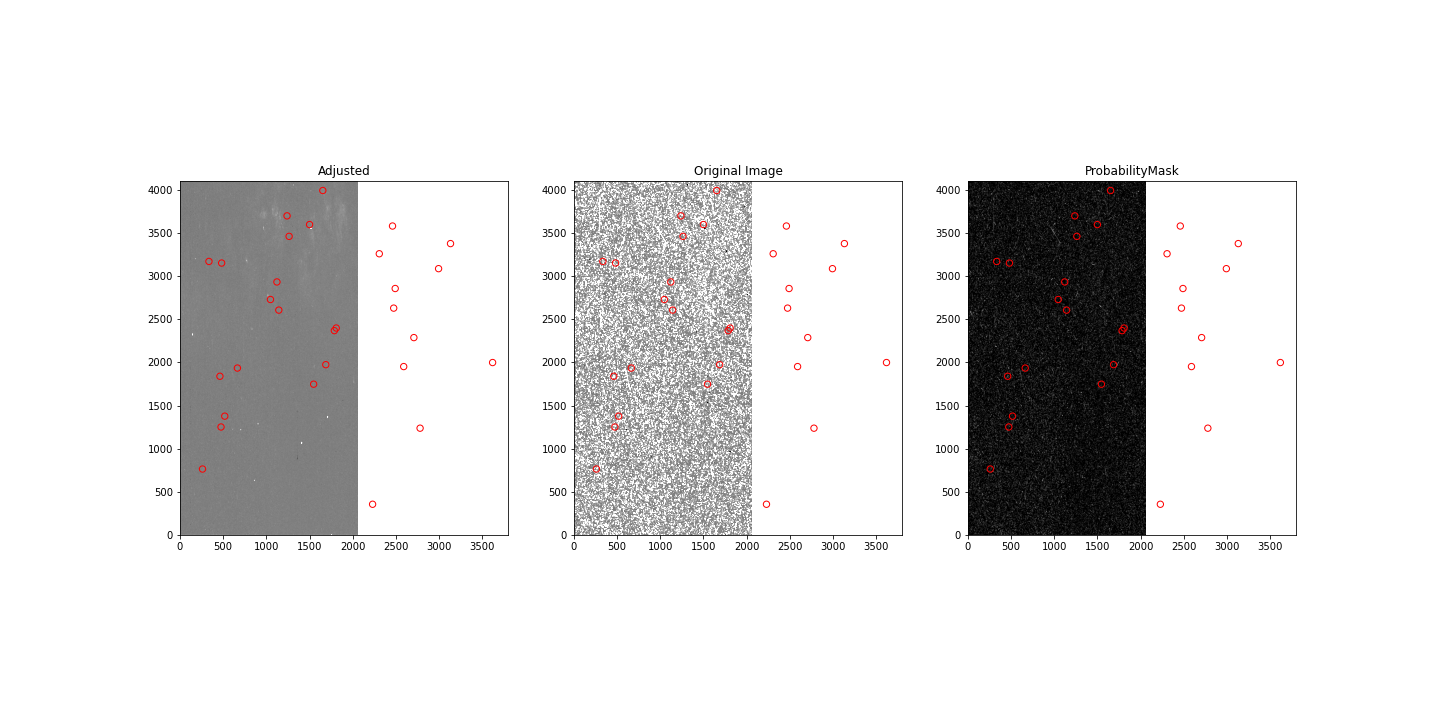
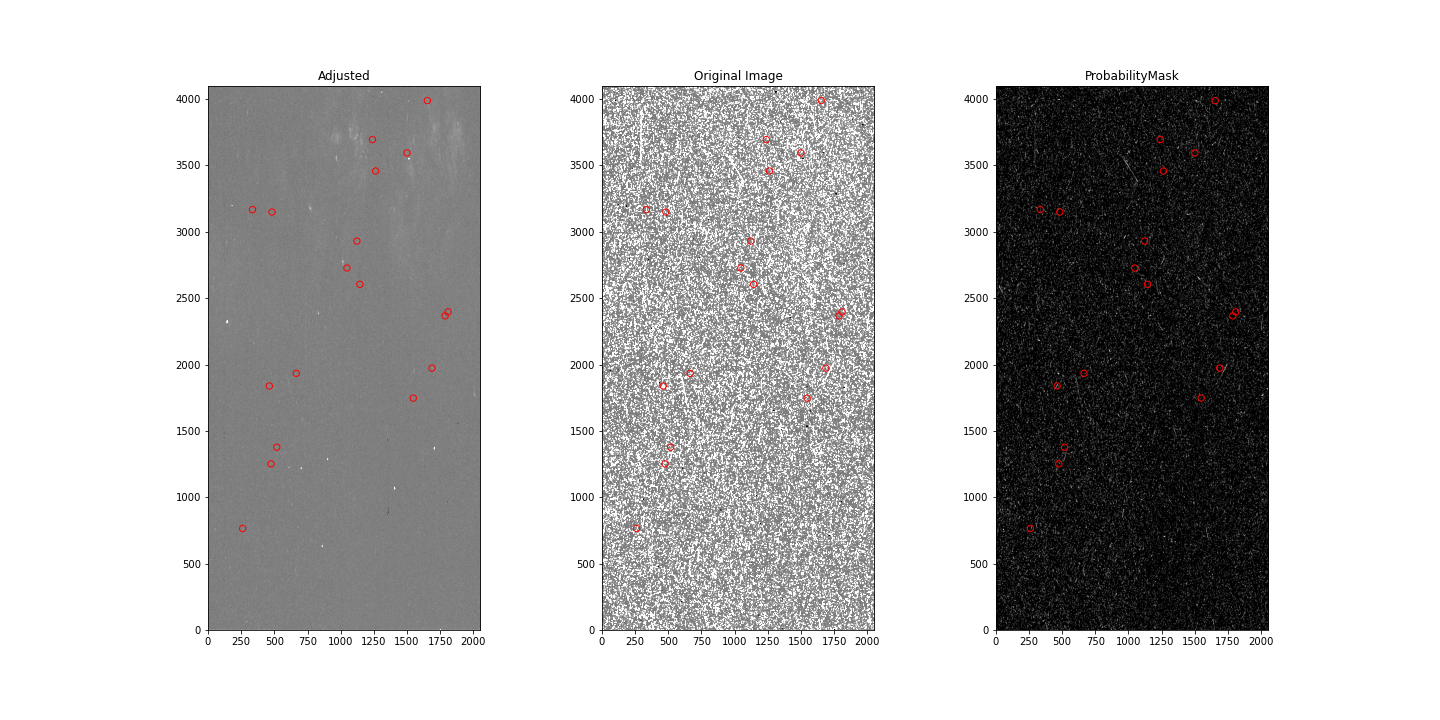
comments and new images

diff --git a/test_hst.py b/test_hst.py
@@ -2,7 +2,7 @@
 # coding: utf-8
 
 # In[ ]:
-
+#Importing libraries
 from astropy.coordinates import FK4
 import astropy.units as u
 from astropy.io import fits
@@ -15,102 +15,118 @@ from astropy.coordinates import SkyCoord
 from deepCR import deepCR 
 from astropy.visualization import astropy_mpl_style
 from astropy.utils.data import get_pkg_data_filename
+#Setting figure size, change numbers here to adjust
 plt.rcParams['figure.figsize'] = (20, 10)
+#Setting the path tolocation of region file that is saved as a text file with no object marker information
+#Change the path below to the absolute path to your file or comment it out and un-comment the line below to be
+#prompted in an ipython terminal
 obj_path = '/data/home/kdavis/hst_data/region.txt'
 #obj_path = input('What is the path to the known objects in a .txt file?')
+#Setting the path where the .png images should be stored
+#Again, replace the path below with your path or change the commented line to be prompted in ipython
 sav_path = '/data/home/kdavis/hst_data/'
 #sav_path = input('Directory where the files should be stored:')
+#Setting the path to the folder containing .fits files you would like to process
+#Include a wilcard identifier in your path and again change the commented lines to adjust how you
+#enter this information
 file_path = '/data/home/kdavis/data/*.fits'
 #file_path= input('What is the path to the files? Include an identifier or asteriks wildcard identifier.')
+#Using glob to generate a list of filenames
 paths = glob.glob(file_path)
+#Determine the number of files in the directory
 length = len(paths)
+#Setting the threshold to use in deepCR. 0.5 is reccomended in the doccumentation but this is the
+#parameter you should adjust to change how the images are processed
+#Again, there is an option to change this to prompt you for this while running ipython
 thresh = 0.5
 #thresh = float(input('What threshold would you like to use? 0.5 reccomended.'))
-lost = []
+#Creating a parameter to track the number of itterations
 n = 0
-bad_im = 0
-for path in paths[0:1]:
+#Looping over the paths
+for path in paths[0:3]:
+    #Increasing n by 1
     n +=1
+    #printing an indication of the number of images to be processed
     print(f'Processing image {n} of {length}')
-    #try:
+    #image is the raw image data from the .fits file
     image = fits.getdata(path)
-    print(fits.open(path).info)
+    #Getting the x and y dimensions of the image
     x_shape = image.shape[0]
     y_shape = image.shape[1]
-    #print(image.shape)
-#    names = ['raQSO','decQSO']
+    #Creating a parameter dtype to store information on the data types of objects in the region file
     dtype = []
+    #assuming that these will have RA then DEC coordinates
     dtype.append( ('raQSO','U20') )
     dtype.append( ('decQSO','U20') )
+    #Generating data from region file
     gotoqinfo = np.genfromtxt(obj_path,dtype=dtype)
+    #Define an empty list to store the SkyCoords from the region file
     coords = []
+    #Loop over the objects in the region file
     for i in range(0, gotoqinfo.shape[0]):
+        #Create SyCoord for object
         c = SkyCoord(gotoqinfo[i][0], gotoqinfo[i][1], frame = FK4, unit = (u.hourangle, u.deg))
+        #Append the SkyCoord to the list
         coords.append(c)
+    #Set the Header Data Unit (hdu) to be the hdu from the fits file
     with fits.open(path) as hdu:
+        #Create an object wcs to store information about the coordinates from the fits file
         wcs = WCS(fobj = hdu, header = hdu[1].header)
+        #Create lists for x an y coordinates of region file objects in this projected coordinates system
         pix_x = []
         pix_y = []
+        #Loop over coordinates
         for coord in coords:
+            #Grab ra and dec atributes from the coordinates
             ra = coord.ra
             dec = coord.dec
+            #Project these ra and dec coordinates to pixel coordinates using wcs
             y, x = wcs.all_world2pix(ra, dec, 1, adaptive = False, ra_dec_order = True)
-            pix_x.append(x)
-            pix_y.append(y)
+            #Check to see if these objects are in the frame we plan to plot over
+            if (x>0)&(y>0)&(x<x_shape)&(y<y_shape):
+                #If they are, add them to our list to plot
+                pix_x.append(x)
+                pix_y.append(y)
+    #Creatinf the model using deepCR. These are all parameters you can change to alter the
+    #way that the models are produced. More inputs can be found in the deepCR doccumentation
     mdl = deepCR(mask = "ACS-WFC-F606W-2-32", inpaint = "ACS-WFC-F606W-2-32", device = "CPU")
+    #Create a probability mask and a cleaned image using the model above
+    #If you are hoping to write out the output of this code to a .fits file, cleaned_image is
+    #what you should be writing out.
     mask, cleaned_image = mdl.clean(image, threshold = thresh)
+    #Vmax and vmin are used to alter the contrast in the images in matplotlib. This is what you alter when
+    #you right click and drag your mouse around in DS9. You can change the contrast by replacing the 5
+    #with other numbers
     vmax = np.median(cleaned_image)+5*np.std(cleaned_image)
     vmin = np.median(cleaned_image)-5*np.std(cleaned_image)
+    #Extent will be used to define the extent of our imshow plots
     extent = [0, x_shape, 0, y_shape]
-   # dx, dy = 0.5, 0.5
-
-   # xi = np.arange(np.min(pix_x), np.max(pix_x), dx)
-   # yi = np.arange(np.min(pix_y), np.max(pix_y), dy)
-   # X, Y = np.meshgrid(xi, yi)
-   #extent = [0, x_shape, 0, y_shape]
-   #extent = [np.min(pix_x), np.max(pix_x), np.min(pix_y), np.max(pix_y)]
+    #Defining figs and axs so we can create subplots wihtin one figure  
     figs, axs = plt.subplots(1,3, frameon = False)
+    #We put our first plot in the 0 position of the plots we already defined. This will plot our cleaned image.
     axs[0].imshow(cleaned_image, vmin = vmin, vmax = vmax, origin = 'lower', cmap = 'gray', 
                   extent=extent)
+    #We create an identifyer to grab the name of the image from the path so it can be added to the filename
+    #and plot titles
     ident = path.split('/')[-1].split('.')[0]
+    #Adding a title to the plot in the 0 position
     axs[0].set_title(f'Adjusted')
-   # plt.savefig(sav_path + f'{ident}_adjusted.png');
-    #plt.figure()
-    #vmx = np.median(image)+5*np.std(image)
-    #vmn = np.median(image)-5*np.std(image)
+    #PLotting the original image in the first position
     axs[1].imshow(image, vmin = vmin, vmax = vmax, origin = 'lower', cmap = 'gray', 
                                    extent=extent)
+    #Adding a title to the original image plot
     axs[1].set_title(f'Original Image')
+    #Plotting the probability mask in the 2nd position on the figure
     axs[2].imshow(mask, origin = 'lower', cmap = 'gray', extent = extent)
+    #Adding a title to the probability mask 
     axs[2].set_title(f'ProbabilityMask')
-                           #           extent=extent)
+    #PLotting a scatterplot of open circles at the position of the known stars on the cleaned image
     axs[0].scatter(pix_x, pix_y, s = 40, facecolors = 'none', edgecolors = 'r') 
-                                   # extent=extent)
+    #PLotting a scatterplot of open circles at the position of the known stars on the original image
     axs[1].scatter(pix_x, pix_y, s = 40, facecolors = 'none', edgecolors = 'r')
-                                    #extent=extent)
+    #PLotting a scatterplot of open circles at the position of the known stars on the probability mask
     axs[2].scatter(pix_x, pix_y, s = 40, facecolors = 'none', edgecolors = 'r')
-                                    #extent=extent)
-    #axs[3].set_xlim(0,
-    #axs[3].set_ylim(0, 
-    #axs[3].set_title('Known Stars')
-   # plt.show()
+    #Save the figure to the specified save path, using the image name as an identifyer
     plt.savefig(sav_path + f'{ident}.png')
-   # plt.savefig(sav_path + f'{ident}_original');
-   # except:
-    #    bad_im +=1
-     #   lost.append(path.split('/')[-1].split('.')[0])
-#print(f'{bad_im} images not processed.The following files were not processed:{lost}')
-#file_path = input('What is the absolute path to the data files?')
-#thresh = input('What threshold? 0.5 reccomended.')
-#image = fits.getdata(file_path)[:512,:512]
-#mdl = deepCR(mask="ACS-WFC-F606W-2-32", inpaint="ACS-WFC-F606W-2-32", device="CPU")
-#mask, cleaned_image = mdl.clean(image, threshold = thresh)
-#prob_mask = mdl.clean(image, binary=False)
-#plt.imshow(cleaned_image)
-#plt.title('Adjusted Image')
-#plt.savefig(f'adjusted_thresh{thresh}.png')
-#plt.fig()
-#plt.imshow(image)
-#plt.title('Original Image')
-#plt.savefig('orig.png')
+
 
